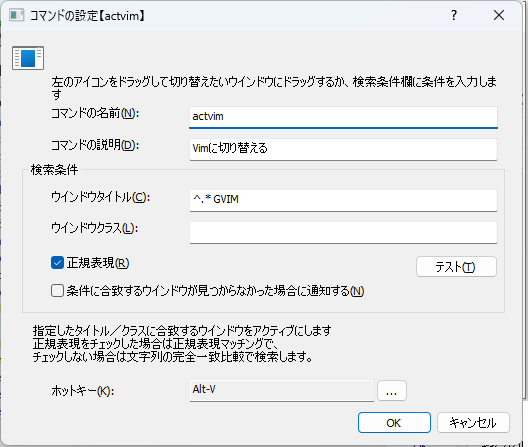
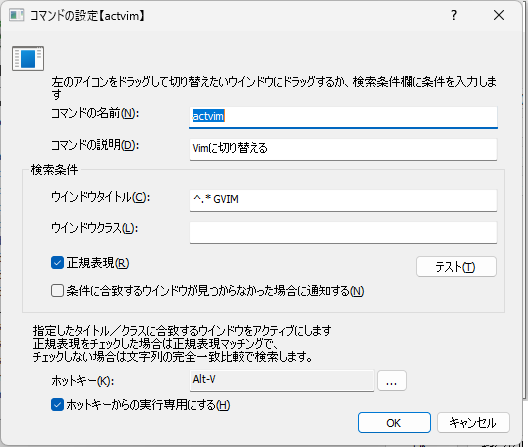
#94 【ウインドウ切替コマンド】ホットキーからの実行専用にする設定を設ける

Changed region(s): [[0.0909, 0.8143, 0.7576, 0.9306], [0.3636, 0.2327, 0.4242, 0.2908], [0.0303, 0.0872, 0.0909, 0.1745]]

diff --git a/src/soyokaze/commands/activate_window/WindowActivateCommand.cpp b/src/soyokaze/commands/activate_window/WindowActivateCommand.cpp
@@ -125,6 +125,11 @@ HICON WindowActivateCommand::GetIcon()
 
 int WindowActivateCommand::Match(Pattern* pattern)
 {
+	if (pattern->shouldWholeMatch() == false && in->mParam.mIsHotKeyOnly) {
+		// ホットキーからの実行専用の場合は候補に表示させない
+		return Pattern::Mismatch;
+	}
+
 	return pattern->Match(GetName());
 }
 
@@ -156,6 +161,7 @@ bool WindowActivateCommand::Save(CommandEntryIF* entry)
 	entry->Set(_T("ClassStr"), in->mParam.mClassStr);
 	entry->Set(_T("IsUseRegExp"), in->mParam.mIsUseRegExp != FALSE);
 	entry->Set(_T("IsNotifyIfWindowNotExist"), in->mParam.mIsNotifyIfWindowNotFound != FALSE);
+	entry->Set(_T("IsHotKeyOnly"), in->mParam.mIsHotKeyOnly != FALSE);
 
 	return true;
 }
@@ -176,6 +182,7 @@ bool WindowActivateCommand::Load(CommandEntryIF* entry)
 	CString classStr = entry->Get(_T("ClassStr"), _T(""));
 	BOOL isUseRegExp = entry->Get(_T("IsUseRegExp"), false) ? TRUE : FALSE;
 	BOOL isNotify = entry->Get(_T("IsNotifyIfWindowNotExist"), false) ? TRUE : FALSE;
+	BOOL isHotKeyOnly = entry->Get(_T("IsHotKeyOnly"), false) ? TRUE : FALSE;
 
 	in->mParam.mName = name;
 	in->mParam.mDescription = descriptionStr;
@@ -183,6 +190,7 @@ bool WindowActivateCommand::Load(CommandEntryIF* entry)
 	in->mParam.mClassStr = classStr;
 	in->mParam.mIsUseRegExp = isUseRegExp;
 	in->mParam.mIsNotifyIfWindowNotFound = isNotify;
+	in->mParam.mIsHotKeyOnly = isHotKeyOnly;
 
 	if (in->mParam.BuildRegExp() == false) {
 		return false;

diff --git a/src/soyokaze/commands/activate_window/WindowActivateSettingDialog.cpp b/src/soyokaze/commands/activate_window/WindowActivateSettingDialog.cpp
@@ -94,6 +94,7 @@ void SettingDialog::DoDataExchange(CDataExchange* pDX)
 	DDX_Check(pDX, IDC_CHECK_REGEXP, in->mParam.mIsUseRegExp);
 	DDX_Check(pDX, IDC_CHECK_NOTIFYIFNOTEXIST, in->mParam.mIsNotifyIfWindowNotFound);
 	DDX_Text(pDX, IDC_EDIT_HOTKEY, in->mHotKey);
+	DDX_Check(pDX, IDC_CHECK_HOTKEYONLY, in->mParam.mIsHotKeyOnly);
 }
 
 BEGIN_MESSAGE_MAP(SettingDialog, launcherapp::gui::SinglePageDialog)
@@ -148,6 +149,8 @@ void SettingDialog::OnButtonHotKey()
 		in->mHotKey.LoadString(IDS_NOHOTKEY);
 	}
 
+	UpdateStatus();
+
 	UpdateData(FALSE);
 }
 
@@ -184,6 +187,9 @@ bool SettingDialog::UpdateStatus()
 {
 	bool canTest = in->mParam.mCaptionStr.IsEmpty() == FALSE || in->mParam.mClassStr.IsEmpty() == FALSE;
 	GetDlgItem(IDC_BUTTON_TEST)->EnableWindow(canTest);
+
+	bool isHotKeySet = in->mParam.mHotKeyAttr.IsValid();
+	GetDlgItem(IDC_CHECK_HOTKEYONLY)->EnableWindow(isHotKeySet);
 
 	// 名前チェック
 	bool isNameValid =

diff --git a/src/soyokaze/commands/activate_window/WindowActivateCommandParam.h b/src/soyokaze/commands/activate_window/WindowActivateCommandParam.h
@@ -10,9 +10,6 @@ namespace activate_window {
 class CommandParam
 {
 public:
-	CommandParam();
-	~CommandParam();
-
 	HWND FindHwnd();
 
 	bool BuildRegExp(CString* errMsg = nullptr);
@@ -38,10 +35,12 @@ public:
 
 	CString mCaptionStr;
 	CString mClassStr;
-	BOOL mIsUseRegExp;
+	BOOL mIsUseRegExp{FALSE};
 
 	// ウインドウが見つからなかった場合に通知
-	BOOL mIsNotifyIfWindowNotFound;
+	BOOL mIsNotifyIfWindowNotFound{FALSE};
+
+	BOOL mIsHotKeyOnly{FALSE};
 };
 
 

diff --git a/src/soyokaze/resource.h b/src/soyokaze/resource.h
@@ -373,6 +373,7 @@
 #define IDC_EDIT_AUTHPASSWORD           1120
 #define IDC_CHECK_ENABLE_CONTROLPANEL2  1121
 #define IDC_EDIT_PROXYUSER              1121
+#define IDC_CHECK_HOTKEYONLY            1121
 #define IDC_CHECK_ENABLE_GITBASH        1122
 #define IDC_EDIT_PROXYPASSWORD          1122
 #define IDC_CHECK_APPLYALL              1123

diff --git a/src/soyokaze/commands/activate_window/WindowActivateCommandParam.cpp b/src/soyokaze/commands/activate_window/WindowActivateCommandParam.cpp
@@ -6,16 +6,6 @@ namespace launcherapp {
 namespace commands {
 namespace activate_window {
 
-CommandParam::CommandParam() :
-	mIsUseRegExp(FALSE),
-	mIsNotifyIfWindowNotFound(FALSE)
-{
-}
-
-CommandParam::~CommandParam()
-{
-}
-
 HWND CommandParam::FindHwnd()
 {
 	struct local_param {

diff --git a/doc/help.md b/doc/help.md
@@ -1505,6 +1505,9 @@ Directory Index(Webサーバーのインデックスページ)上のディレク
 該当するウインドウが見つかった場合はタスクバー上にあるアイコンが点滅する。
 - `ホットキー`
   - コマンドを呼び出すキーバインドを設定できる。設定したキーを押下するとコマンドを実行できるようになる。
+- `ホットキーからの実行専用にする`
+  - チェックした場合、キーワード入力でコマンド名がマッチしてもコマンドを候補欄に表示しない  
+(ホットキーを入力した場合のみ実行できるようにする)
 
 ##### 実行時の動作
 

diff --git a/CHANGELOG.md b/CHANGELOG.md
@@ -2,6 +2,10 @@
 
 ## [Unreleased]
 
+### Added
+
+- #94 【ウインドウ切替コマンド】ホットキーからの実行専用にする設定を設ける
+
 ### Fixed
 
 - #92 【簡易電卓】`<built-in function xxx>`と表示されないようにする
